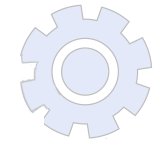
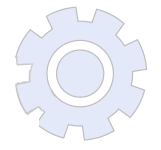
'anim-rotate'

diff --git a/js/common.js b/js/common.js
@@ -9,8 +9,15 @@ let countSlide = document.getElementById('counted__num');
 let slideAllText = document.getElementById('all-slide')
 let slideAll = document.querySelectorAll('.slide');
 
+let imgRight = document.getElementById('img-rotate-right');
+let imgLeft = document.getElementById('img-rotate-left');
+
 slideAllText.innerText = slideAll.length;
 
+window.onscroll = function () {
+  imgRight.style.transform = "rotate("+window.pageYOffset/4 + "deg)";
+  imgLeft.style.transform = "rotate(-"+window.pageYOffset/4 + "deg)";
+}
 
 $('.mobile-ofers').slick({
   dots: true,

diff --git a/index.html b/index.html
@@ -13,6 +13,10 @@
     <link rel="stylesheet" href="css/mobile.css">
 </head>
 <body>
+  <div class="position-fixed anim-gears">
+    <img src="img/top-section/anim.png" alt="" id="img-rotate-right" class="rotate-right">
+    <img src="img/top-section/anim.png" alt="" id="img-rotate-left" class="rotate-left position-absolute">
+  </div>
     <div class="container-fluid sticky-top header border-bottom">
         <nav class="navbar navbar-expand-md navbar-light">
             <div class="container">

diff --git a/css/style.css b/css/style.css
@@ -678,3 +678,20 @@ body{
     font-family: "PFCentroSansPro-Bold";
     font-weight: bold;
 }
+
+.anim-gears{
+    right: 0;
+    top: 80px;
+    z-index: 99;
+}
+
+.rotate-right{
+    transition: all 0.1s;
+    width: 100px;
+}
+
+.rotate-left{
+    top: 57px;
+    left: -50px;
+    width: 100px;
+}
